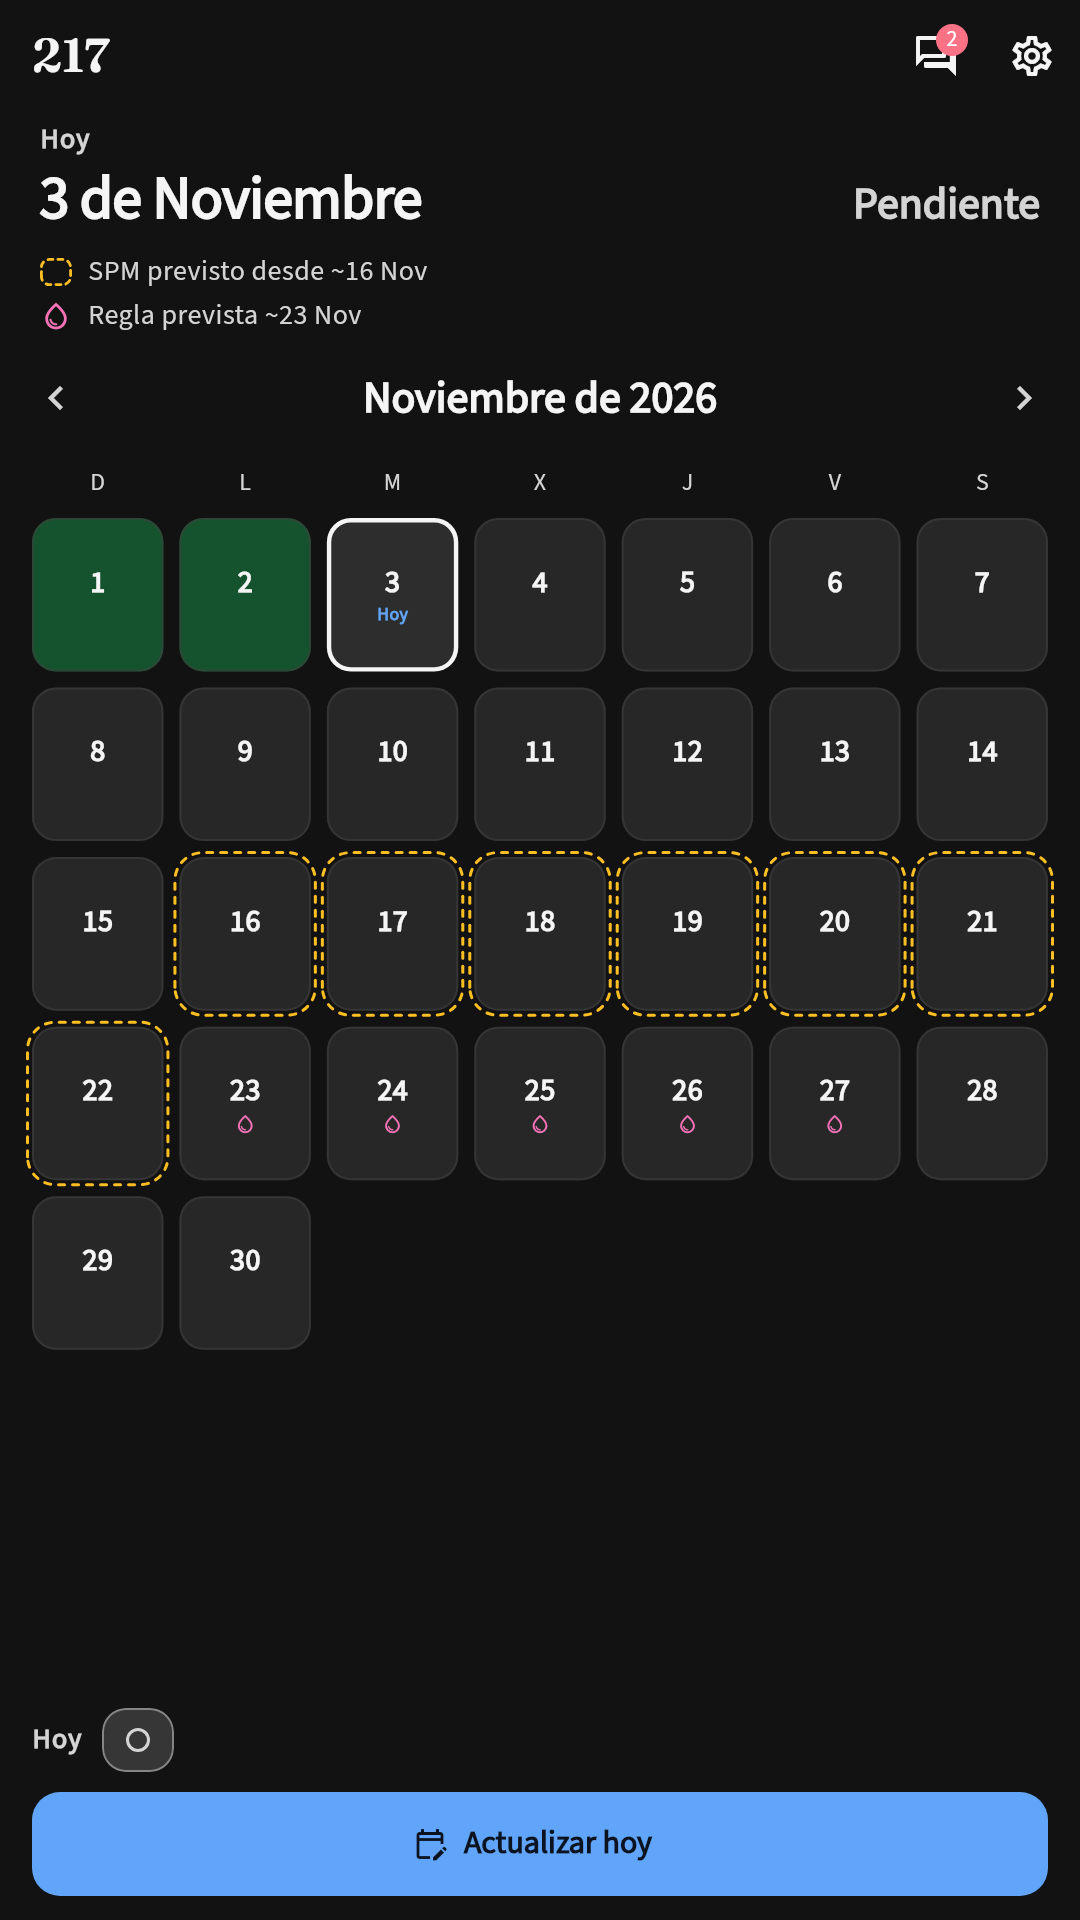
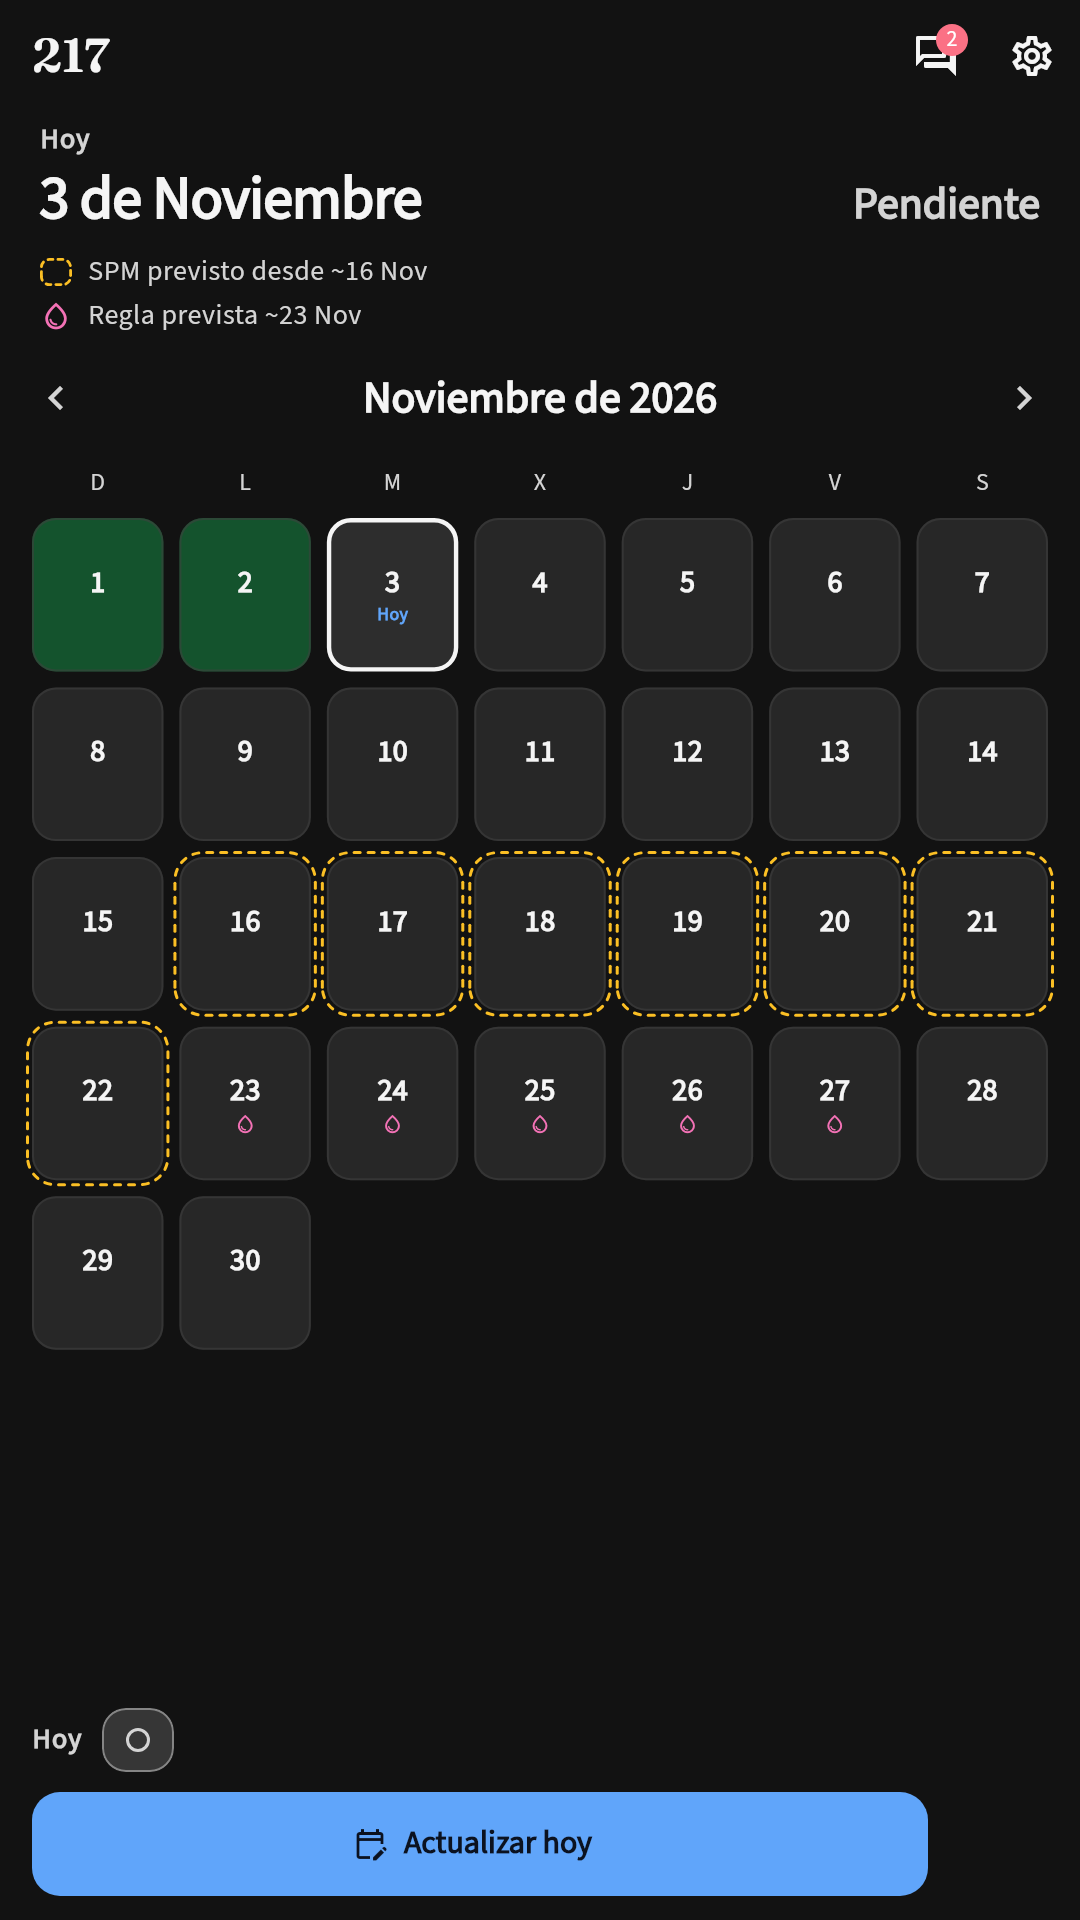
fix(calendar): same-size jump-to-today button that does not shift the layout (#127)
* fix(calendar): same-size jump-to-today button that does not shift the layout

The pill used the platform density (compact on web/desktop) so it was
shorter than the square jump button beside it. Both now pin the standard
density and one height, and the jump slot is reserved while hidden so the
tags and calendar do not move when it appears.

* chore(assets): re-render store screenshots

---------

Changed region(s): [[0.8556, 0.9062, 0.9778, 1.0], [0.3361, 0.9375, 0.6111, 0.9688]]

diff --git a/frontend/test/jump_today_stable_test.dart b/frontend/test/jump_today_stable_test.dart
@@ -1,0 +1,123 @@
+import 'package:flutter/material.dart';
+import 'package:flutter_test/flutter_test.dart';
+
+import 'package:a217/src/api/client.dart';
+import 'package:a217/src/config.dart';
+import 'package:a217/src/i18n.dart';
+import 'package:a217/src/models.dart';
+import 'package:a217/src/screens/calendar_screen.dart';
+import 'package:a217/src/theme/app_theme.dart';
+
+class _Api extends ApiClient {
+  _Api() : super(AppConfig.fromEnvironment());
+
+  @override
+  Future<List<Entry>> listEntries(int year, int month) async => const [];
+
+  @override
+  Future<CycleInfo> getCycle(String today) async => CycleInfo.empty;
+}
+
+const _jump = ValueKey('jump-to-today-button');
+
+Future<List<Object>> _layout(WidgetTester tester) async {
+  final cells = find.byWidgetPredicate(
+    (w) => w.runtimeType.toString() == '_DayCell',
+  );
+  final size = tester.view.physicalSize;
+  final visible = cells
+      .evaluate()
+      .map((e) => tester.getRect(find.byWidget(e.widget)))
+      .where((r) => r.left >= 0 && r.right <= size.width)
+      .toList();
+  return [
+    visible.map((r) => r.top).reduce((a, b) => a < b ? a : b),
+    visible.first.size,
+    tester.getTopLeft(find.byTooltip('Next month')),
+    tester.getTopLeft(find.byTooltip('Previous month')),
+    tester.getSize(find.byKey(const ValueKey('day-summary'))),
+  ];
+}
+
+void main() {
+  TestWidgetsFlutterBinding.ensureInitialized();
+
+  for (final size in const [
+    Size(1920, 1080),
+    Size(1600, 1000),
+    Size(400, 850),
+  ]) {
+    for (final partner in [false, true]) {
+      testWidgets(
+          'jump to today keeps the layout and height at $size '
+          '(${partner ? 'partner' : 'owner'})', (tester) async {
+        tester.view.physicalSize = size;
+        tester.view.devicePixelRatio = 1;
+        addTearDown(tester.view.reset);
+        await tester.pumpWidget(MaterialApp(
+          theme: buildApp217Theme(
+            brightness: Brightness.dark,
+            palette: AppPalette.blue,
+          ).copyWith(
+            // What web and desktop use by default.
+            visualDensity: VisualDensity.compact,
+          ),
+          home: CalendarScreen(
+            api: _Api(),
+            user: User(
+              id: 'u',
+              email: 'u@example.invalid',
+              name: 'U',
+              role: partner ? 'partner' : 'owner',
+            ),
+            share: partner
+                ? const ShareState(
+                    status: 'active',
+                    ownerName: 'O',
+                    canEditCalendar: false,
+                  )
+                : const ShareState(status: 'none'),
+            strings: const Strings(AppLanguage.en),
+            onOpenSettings: () {},
+          ),
+        ));
+        await tester.pumpAndSettle();
+
+        expect(find.byKey(_jump), findsNothing);
+        final home = await _layout(tester);
+
+        // Selecting another day of the same month shows the button too.
+        final other = DateTime.now().day == 15 ? '16' : '15';
+        final now = DateTime.now();
+        await tester.tap(find.descendant(
+          of: find.byKey(ValueKey('${now.year}-${now.month}')),
+          matching: find.text(other),
+        ));
+        await tester.pumpAndSettle();
+        expect(find.byKey(_jump), findsOneWidget);
+        // The summary's own height follows the day shown (tags), not the button.
+        expect((await _layout(tester)).sublist(0, 4), home.sublist(0, 4));
+
+        final action = find
+            .byKey(ValueKey(partner ? 'view-day-button' : 'update-day-button'));
+        expect(tester.getSize(find.byKey(_jump)).height,
+            tester.getSize(action).height);
+
+        // Another month too: the header and arrows stay where they were.
+        await tester.tap(find.byTooltip('Next month'));
+        await tester.pumpAndSettle();
+        expect(find.byKey(_jump), findsOneWidget);
+        final away = await _layout(tester);
+        expect(away[2], home[2]);
+        expect(away[3], home[3]);
+        // The summary's own height follows the day shown, not the button.
+        if (size.width >= 560) expect(away, home);
+
+        await tester.tap(find.byKey(_jump));
+        await tester.pumpAndSettle();
+        expect(find.byKey(_jump), findsNothing);
+        expect(await _layout(tester), home);
+      });
+    }
+  }
+}

diff --git a/frontend/lib/src/screens/day_summary.dart b/frontend/lib/src/screens/day_summary.dart
@@ -206,35 +206,46 @@ class DaySummaryBar extends StatelessWidget {
     final compact =
         size.width >= 600 || (size.height < 600 && size.width >= 480);
     final viewing = onEdit == null && onView != null;
+    // Web and desktop default to a compact density that would shrink the
+    // pill below the square button beside it; both are pinned to one height.
+    final barHeight = compact ? 48.0 : 52.0;
     final button = onEdit == null && onView == null
         ? null
-        : FilledButton.icon(
-            key: ValueKey(viewing ? 'view-day-button' : 'update-day-button'),
-            // Viewing stays enabled on future days: they show predictions.
-            onPressed: viewing ? onView : (isFuture ? null : onEdit),
-            // The theme's full-width minimum would not fit beside the tags.
-            style: compact
-                ? FilledButton.styleFrom(minimumSize: const Size(0, 48))
-                : null,
-            icon: Icon(viewing
-                ? Icons.visibility_outlined
-                : Icons.edit_calendar_outlined),
-            label: Text(viewing
-                ? (isToday ? strings.viewToday : strings.viewDay(shortDay))
-                : (isToday
-                    ? strings.updateToday
-                    : strings.updateDay(shortDay))),
+        : SizedBox(
+            height: barHeight,
+            child: FilledButton.icon(
+              key: ValueKey(viewing ? 'view-day-button' : 'update-day-button'),
+              // Viewing stays enabled on future days: they show predictions.
+              onPressed: viewing ? onView : (isFuture ? null : onEdit),
+              // The theme's full-width minimum would not fit beside the tags.
+              style: FilledButton.styleFrom(
+                visualDensity: VisualDensity.standard,
+                tapTargetSize: MaterialTapTargetSize.shrinkWrap,
+                minimumSize: compact ? Size(0, barHeight) : null,
+              ),
+              icon: Icon(viewing
+                  ? Icons.visibility_outlined
+                  : Icons.edit_calendar_outlined),
+              label: Text(viewing
+                  ? (isToday ? strings.viewToday : strings.viewDay(shortDay))
+                  : (isToday
+                      ? strings.updateToday
+                      : strings.updateDay(shortDay))),
+            ),
           );
 
-    final barHeight = compact ? 48.0 : 52.0;
-    final jump = onJumpToToday == null
-        ? null
-        : SizedBox.square(
-            dimension: barHeight,
-            child: IconButton.filledTonal(
+    // The slot stays reserved while the button is hidden, so showing it never
+    // resizes the tags or moves the calendar above.
+    final jump = SizedBox.square(
+      dimension: barHeight,
+      child: onJumpToToday == null
+          ? null
+          : IconButton.filledTonal(
               key: const ValueKey('jump-to-today-button'),
               // Square, with the corners of the update-day button beside it.
               style: IconButton.styleFrom(
+                visualDensity: VisualDensity.standard,
+                tapTargetSize: MaterialTapTargetSize.shrinkWrap,
                 shape: RoundedRectangleBorder(
                     borderRadius: BorderRadius.circular(14)),
               ),
@@ -242,16 +253,15 @@ class DaySummaryBar extends StatelessWidget {
               onPressed: onJumpToToday,
               icon: const Icon(Icons.today),
             ),
-          );
-    final actions = button == null && jump == null
+    );
+    final actions = button == null
         ? null
         : Row(
             mainAxisSize: compact ? MainAxisSize.min : MainAxisSize.max,
             children: [
-              if (button != null)
-                if (compact) button else Expanded(child: button),
-              if (button != null && jump != null) const SizedBox(width: 8),
-              if (jump != null) jump,
+              if (compact) button else Expanded(child: button),
+              const SizedBox(width: 8),
+              jump,
             ],
           );
 
